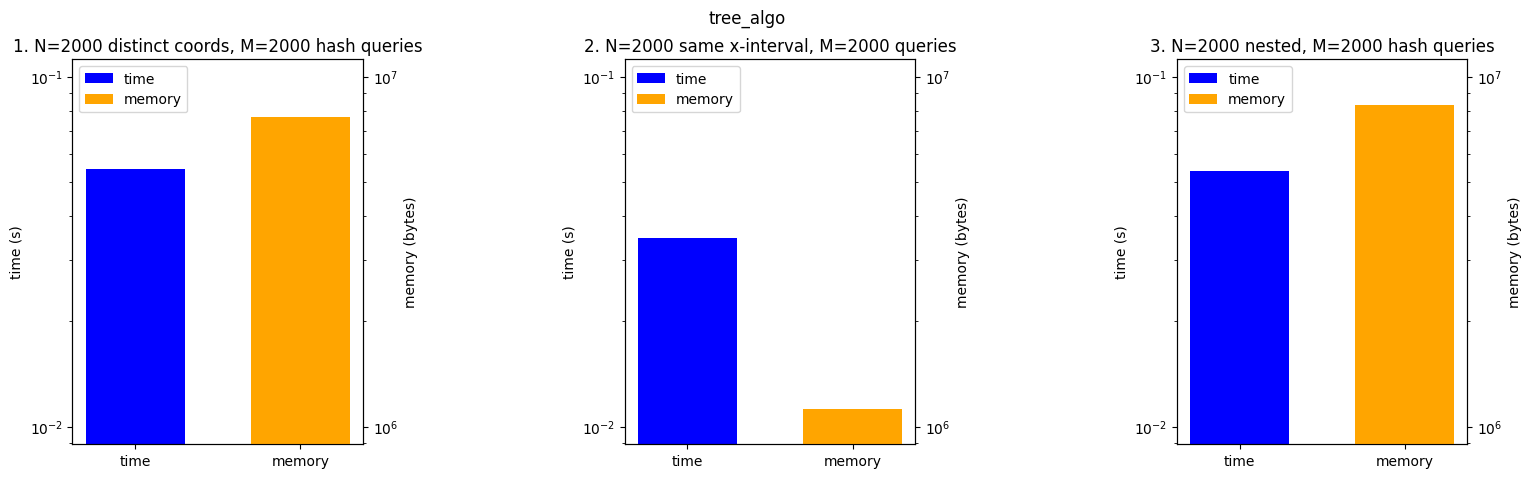
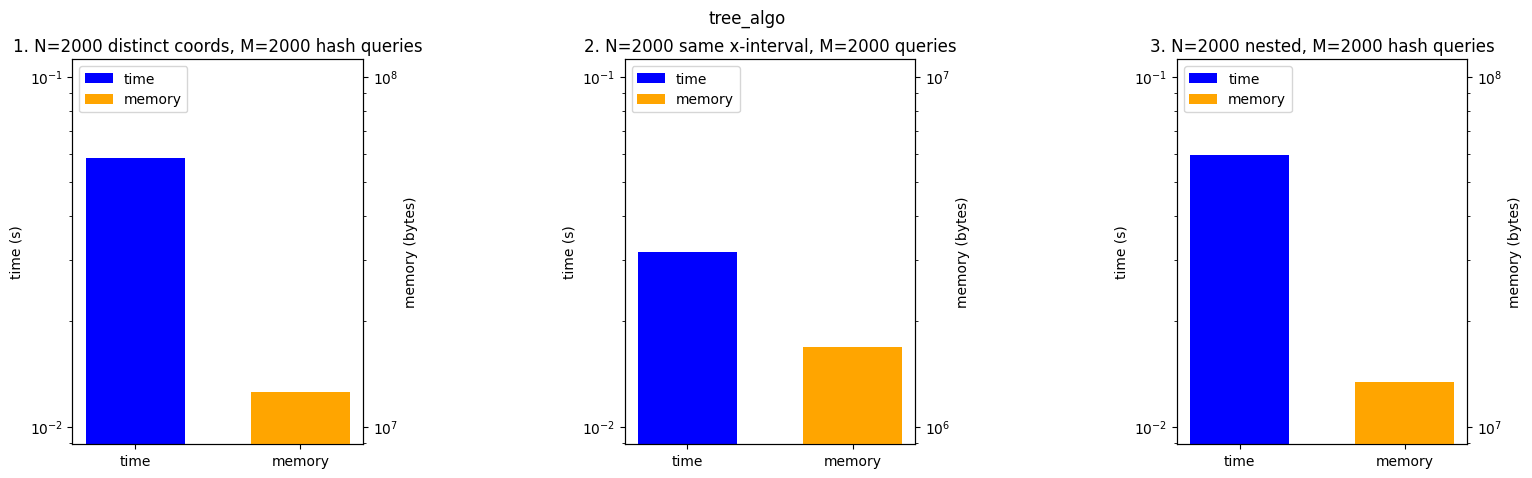
new charts, fix tree

diff --git a/algos/tree_algo.py b/algos/tree_algo.py
@@ -1,10 +1,7 @@
 from bisect import bisect_right
-from collections import defaultdict
 
 
 class Node:
-    __slots__ = ("left", "right", "value")
-
     def __init__(self, left, right, value):
         self.left = left
         self.right = right
@@ -38,28 +35,48 @@ def _point_query(node, lo, hi, p):
     return node.value + _point_query(node.right, mid, hi, p)
 
 
-def prepare(rectangles: list) -> tuple:
-    xs = sorted({r[0] for r in rectangles} | {r[2] for r in rectangles})
-    ys = sorted({r[1] for r in rectangles} | {r[3] for r in rectangles})
-    y_index = {v: i for i, v in enumerate(ys)}
+def prepare(rectangles):
+    x_values = []
+    y_values = []
+    for r in rectangles:
+        x_values.append(r[0])
+        x_values.append(r[2])
+        y_values.append(r[1])
+        y_values.append(r[3])
+
+    xs = sorted(list(set(x_values)))
+    ys = sorted(list(set(y_values)))
+
+    y_index = {}
+    for i in range(len(ys)):
+        y_index[ys[i]] = i
+
     ny = max(len(ys) - 1, 1)
-    events = defaultdict(list)
+
+    events = {}
     for x1, y1, x2, y2 in rectangles:
         j1 = y_index[y1]
         j2 = y_index[y2]
+        if x1 not in events:
+            events[x1] = []
         events[x1].append((j1, j2, 1))
+        if x2 not in events:
+            events[x2] = []
         events[x2].append((j1, j2, -1))
+
     roots = []
     current = None
     for x in xs:
-        for j1, j2, delta in events[x]:
-            if j1 < j2:
-                current = _update(current, 0, ny, j1, j2, delta)
+        if x in events:
+            for j1, j2, delta in events[x]:
+                if j1 < j2:
+                    current = _update(current, 0, ny, j1, j2, delta)
         roots.append(current)
+
     return xs, ys, ny, roots
 
 
-def query(prepared: tuple, x: int, y: int) -> int:
+def query(prepared, x, y):
     xs, ys, ny, roots = prepared
     i = bisect_right(xs, x) - 1
     if i < 0: